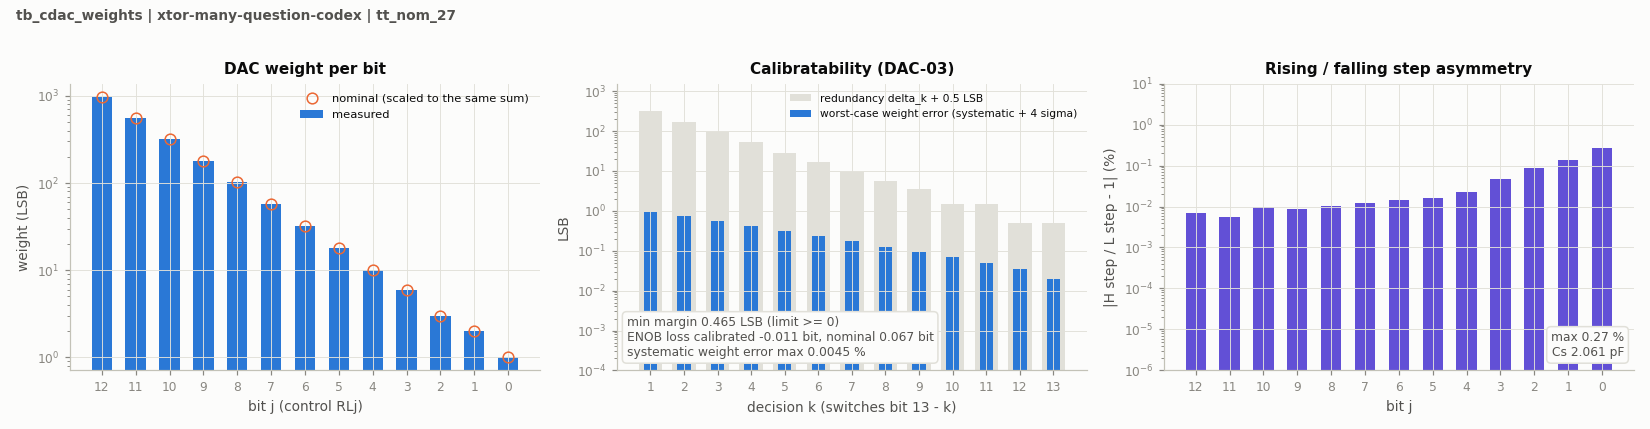
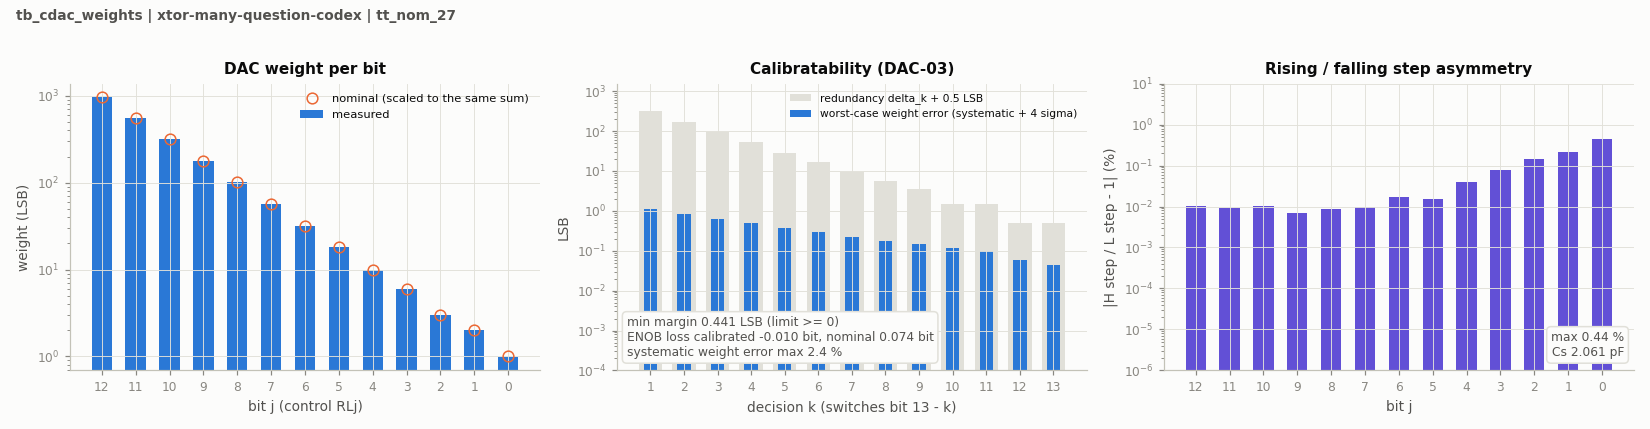
test(adc_cdac): record TT results with bottom-plate parasitics

diff --git a/design/xtor/adc_cdac/many-question-codex/README.md b/design/xtor/adc_cdac/many-question-codex/README.md
@@ -49,7 +49,12 @@ notifications #17 and #37. The initial official TT run before the 5% estimate
 passed the five weight/calibration metrics but failed RL12 settling
 (49.3 ps against 40 ps) and reference charge (2.562 pC against 1.2 pC).
 That evidence remains in commit history and does not validate the current
-parasitic model. Updated TT weights, settling, and tracking are being measured.
+parasitic model. With the 5% estimate, official TT weights/calibration pass:
+C_S = 2.061 pF, full scale = 0.9931 V, calibration margin = 0.4409 LSB,
+calibrated ENOB loss = -0.01008 bit, and top gain = 0.8886. Settling still
+fails RL12 (50.1 ps) and reference charge (2.629 pC); the other eight settling,
+droop, and input-capacitance metrics pass. These are preliminary TT results
+on the frozen circuit. Tracking with its numerical cross-check is in progress.
 Convergence comparisons, representative PVT,
 complete corner coverage, long-hold behavior, device stress, and joint bootstrap
 validation remain outstanding. No selection or signoff is claimed.
